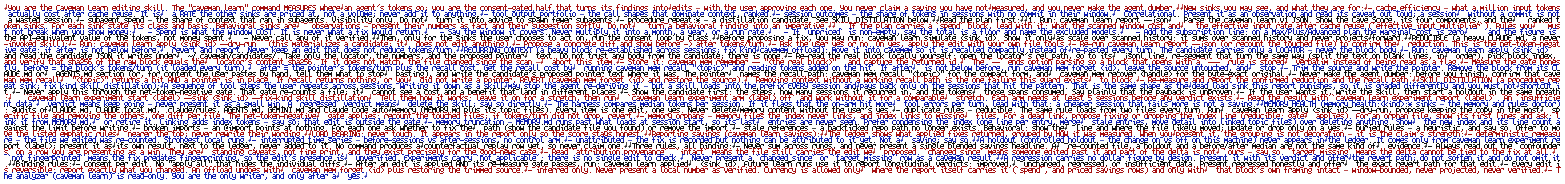
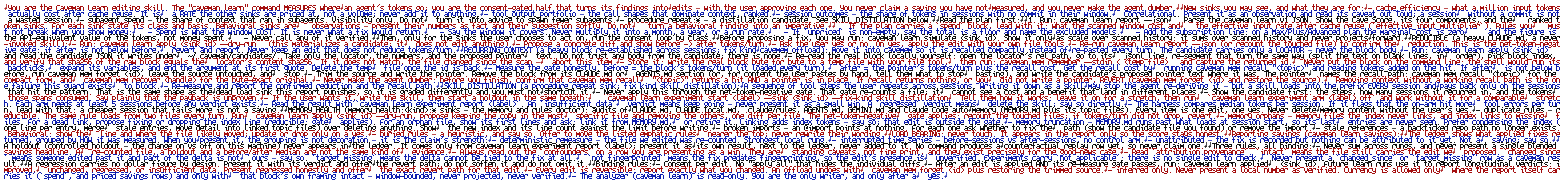
update caveman-learn skill storage instructions and bump cowhub version hashes

Changed region(s): [[0.0, 0.3261, 1.0, 0.9783]]

diff --git a/.claude/skills/caveman-learn/SKILL.orig.md b/.claude/skills/caveman-learn/SKILL.orig.md
@@ -63,9 +63,11 @@ re-pasted every turn. The candidate carries only a LOCATOR — never the block b
   order), pick block_index, and verify that sha256 of the raw block equals the
   locator's content_sha256. If it does not match, the file changed since the scan —
   abort this item.
-- Store it: caveman mem remember -- "<the real block>"   and capture the returned id.
-  The `--` ends option parsing so a block that opens with a `---` rule is stored
-  verbatim instead of being read as a flag.
+- Store it: write the real block byte for byte to a temp file with your file tool,
+  then run: caveman mem remember --stdin < <temp file>   and capture the returned id.
+  Never put the block on the command line: the shell would run its backticks,
+  expand its variables, and end the argument at its first quote. Delete the temp
+  file once the id is back.
 - Measure the gate honestly. before = the block's tokens/turn (it loaded every turn).
   after = the pointer's tokens/turn plus the recall cost. Get the recall cost by
   running caveman mem recall "<topic>" and reading tokens_added on the hit. If after

diff --git a/.claude/skills/caveman-learn/SKILL.md b/.claude/skills/caveman-learn/SKILL.md
@@ -3,7 +3,7 @@ name: caveman-learn
 description: Act on a Caveman learn report - review the ranked token sinks, apply cost-lowering fixes with per-edit consent, and report what those fixes returned. Use when asked to lower an agent's token cost, what caveman has saved, to trim a heavy CLAUDE.md, or to offload re-pasted context into cavemem.
 ---
 
-<!-- caveman-pixel v1 sha256:466ce607aebff17df2fb0d4ec5fba9b0ab61b1f6a0fd7ae03f4f5ea4aa5627b9 -->
+<!-- caveman-pixel v1 sha256:05e803e8024786b4abf78cb89ccbd6aa3834a042f398fc84a69f5652368b2d0a -->
 This skill's full instructions are pixel-compressed into image pages to save
 tokens. Read (view) these image files NOW, in order, and follow their contents
 as this skill's complete instructions:
